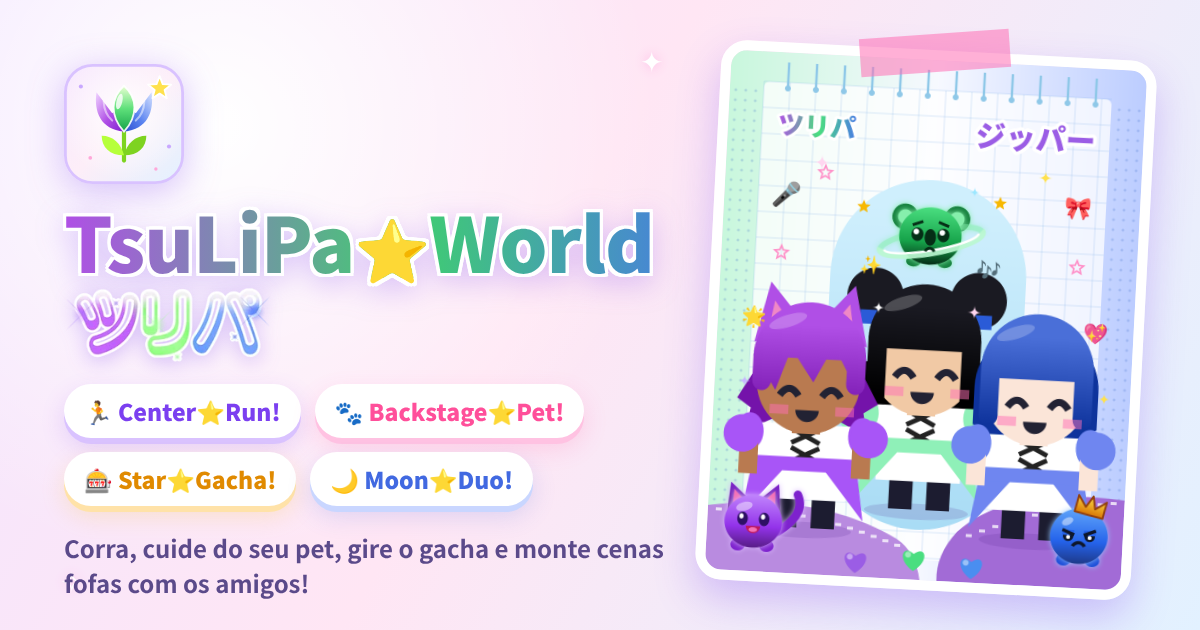
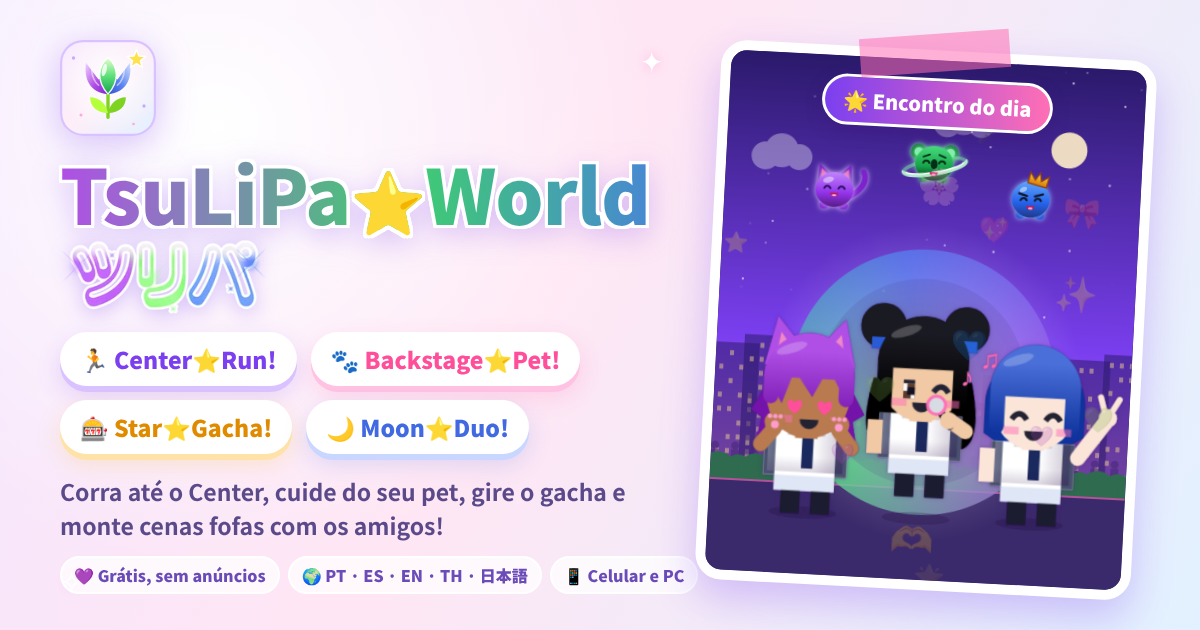
OG novo com a cena do jogo e Privacidade atualizada (Duo, outdoors, Encontro do dia, aniversário, gacha, histórico)
Claude-Session: https://claude.ai/code/session_01XGVFxJ3mBe4Ma5WA6JJQdv

diff --git a/privacidade.html b/privacidade.html
@@ -28,7 +28,7 @@ small{color:var(--sub)}
 .lang{display:flex;gap:6px;justify-content:center;flex-wrap:wrap;margin:8px 0 0}.lang button{border:0;border-radius:99px;padding:5px 12px;font:inherit;font-size:13px;font-weight:800;background:var(--chip);color:var(--sub);cursor:pointer}.lang button[aria-pressed=true]{background:linear-gradient(90deg,#7b3ff0,#ff6fb5);color:#fff}
 </style>
 </head><body><main>
-<div class="topo"><div class="logo" translate="no">TsuLiPa<i>⭐</i>World</div><p>ツリパ⭐ワールド · Center⭐Run! · Backstage⭐Pet!</p><div class="lang" id="lang"><button data-l="pt">PT</button><button data-l="es">ES</button><button data-l="en">EN</button><button data-l="th">TH</button><button data-l="ja">日本語</button></div></div>
+<div class="topo"><div class="logo" translate="no">TsuLiPa<i>⭐</i>World</div><p>ツリパ⭐ワールド · Center⭐Run! · Backstage⭐Pet! · Star⭐Gacha! · Moon⭐Duo!</p><div class="lang" id="lang"><button data-l="pt">PT</button><button data-l="es">ES</button><button data-l="en">EN</button><button data-l="th">TH</button><button data-l="ja">日本語</button></div></div>
 <div id="conteudo">
 
 <div class="cartao">
@@ -57,7 +57,7 @@ small{color:var(--sub)}
 <li>Nome de Idol, a foto do seu Idol (o boneco montado no jogo), recorde, rank e posição no ranking.</li>
 <li>Oshi e frase do perfil (se você escolher), insígnias, pets (nome e estágio), últimas corridas e recordes dos minijogos.</li>
 <li>Recados que você recebe (com o nome de quem mandou) e o total de corações.</li>
-</ul>
+<li><b>Moon⭐Duo!, outdoors e Encontro do dia:</b> o seu Idol, com o look que você está usando, pode aparecer nas cenas que outras pessoas montam, nos outdoors do Center Run e como Encontro do dia. Quando alguém monta um Duo com você, você recebe um aviso. Para sair de tudo isso, desmarque <b>&quot;Aparecer no Moon⭐Duo! e nos outdoors do Center Run&quot;</b> no seu perfil.</li><li>As suas 3 últimas cartas do Star⭐Gacha! e, no dia do seu aniversário, o perfil em festa.</li></ul>
 </div>
 
 <div class="cartao">
@@ -66,7 +66,7 @@ small{color:var(--sub)}
 <li><b>O seu e-mail</b> — não aparece em lugar nenhum do jogo, nem no ranking.</li>
 <li>O seu saldo de estrelas, compras, o save completo do camarim e de quem foi cada coração.</li>
 <li>O identificador do aparelho usado no ranking (serve só para evitar trapaças).</li>
-</ul>
+<li>A sua <b>data de aniversário</b> (só dia e mês, opcional): as outras pessoas só veem a festa no dia, nunca a data.</li></ul>
 </div>
 
 <div class="cartao">
@@ -88,7 +88,7 @@ small{color:var(--sub)}
 <li><b>Conta (com login):</b> nome e e-mail do Google, só para reconhecer você.</li>
 <li><b>Jogo:</b> nome de Idol, pontuações, estrelas, itens, roupas, pets, recordes dos minijogos, oshi, frase, recados e corações.</li>
 <li><b>Save na nuvem:</b> uma cópia do seu camarim e do visual dos personagens, para você continuar em outro aparelho.</li>
-</ul>
+<li><b>Histórico:</b> só as 5 últimas e as 5 melhores corridas, mais contadores (corridas, Centers e dias jogados). Corridas mais antigas são apagadas sozinhas toda semana; as insígnias já ganhas continuam.</li></ul>
 <p>Usamos esses dados <b>só para o jogo funcionar</b>. Não vendemos, não compartilhamos com ninguém e não usamos publicidade nem rastreadores.</p>
 </div>
 
@@ -110,34 +110,34 @@ var T = {
 en: {t:'Privacy and Security', v:'← Back to the game', html:
 '<div class="cartao"><h1>Privacy and Security</h1><p>Last updated: 10/27/2026. TsuLiPa⭐World is a BRS48 fan game: <b>free, with no ads and nothing for sale</b>. Here we explain, in plain words, what the game stores, what other people can see and how your account is protected.</p><div class="selos"><span>🔐 Password only at Google</span><span>🙈 Email never shown</span><span>🛡 Everything checked on the server</span><span>🗑 You can delete everything</span></div></div>'+
 '<div class="cartao"><h2>Is signing in with Google safe?</h2><p>Yes. In practice it is safer than creating a new password on a small site:</p><ul><li><b>Your password is typed only on Google\'s own site.</b> The game never sees, receives or stores it.</li><li>Google gives the game only a <b>temporary key</b> saying "this person is who they say", plus your name and email.</li><li>The game has <b>no access</b> to your Gmail, Drive, photos, contacts, YouTube or anything else in your Google account.</li><li>Signing in <b>does not make your Google account easier to hack</b>: protection is still Google\'s.</li><li>You can remove the game\'s access anytime at <a href="https://myaccount.google.com/permissions" target="_blank" rel="noopener">myaccount.google.com/permissions</a>.</li></ul><p class="dica">💡 Golden tip: turn on <b>2-step verification</b> in your Google account.</p><p>Signing in is <b>optional</b>. Without it you can play normally; progress is saved only on your device.</p></div>'+
-'<div class="cartao"><h2>What other people can see (public profile)</h2><ul><li>Idol name, your Idol picture, record, rank and ranking position.</li><li>Oshi and profile phrase (if you choose), badges, pets (name and stage), recent runs and minigame records.</li><li>Messages you receive (with the sender\'s name) and your total hearts.</li></ul></div>'+
-'<div class="cartao"><h2>What is private</h2><ul><li><b>Your email</b> — it never appears anywhere in the game.</li><li>Your star balance, purchases, full dressing room save and who gave each heart.</li><li>The device id used in the ranking (only to prevent cheating).</li></ul></div>'+
+'<div class="cartao"><h2>What other people can see (public profile)</h2><ul><li>Idol name, your Idol picture, record, rank and ranking position.</li><li>Oshi and profile phrase (if you choose), badges, pets (name and stage), recent runs and minigame records.</li><li>Messages you receive (with the sender\'s name) and your total hearts.</li><li><b>Moon⭐Duo!, billboards and Meeting of the day:</b> your Idol, in the look you are wearing, may appear in scenes other people make, on the Center Run billboards and as the Meeting of the day. When someone makes a Duo with you, you get a notice. To opt out of all of this, uncheck <b>&quot;Appear in Moon⭐Duo! and on the Center Run billboards&quot;</b> in your profile.</li><li>Your last 3 Star⭐Gacha! cards and, on your birthday, your profile in party mode.</li></ul></div>'+
+'<div class="cartao"><h2>What is private</h2><ul><li><b>Your email</b> — it never appears anywhere in the game.</li><li>Your star balance, purchases, full dressing room save and who gave each heart.</li><li>The device id used in the ranking (only to prevent cheating).</li><li>Your <b>birthday</b> (day and month only, optional): others only see the party on the day, never the date.</li></ul></div>'+
 '<div class="cartao"><h2>How the database protects everything</h2><ul><li>Data is stored on <b>Supabase</b>, with an encrypted (HTTPS) connection.</li><li><b>Each person can only change their own account.</b> The rules live on the server, not in the browser.</li><li><b>Stars, purchases, points and ranking are checked on the server</b>. Tampering with the browser does not add stars or fake scores.</li><li>The key in the site is a limited public key: it gives no access to anyone\'s private data.</li><li>Messages and phrases go through a <b>word filter</b> and have limits (60 characters, 1 message per day per profile).</li><li>The game\'s moderators can delete messages and phrases, rename offensive names and block accounts.</li></ul></div>'+
-'<div class="cartao"><h2>What we store and why</h2><ul><li><b>Account (signed in):</b> Google name and email, only to recognize you.</li><li><b>Game:</b> Idol name, scores, stars, items, outfits, pets, minigame records, oshi, phrase, messages and hearts.</li><li><b>Cloud save:</b> a copy of your dressing room and characters\' looks, to continue on another device.</li></ul><p>We use this data <b>only to run the game</b>. We do not sell or share it and use no ads or trackers.</p></div>'+
+'<div class="cartao"><h2>What we store and why</h2><ul><li><b>Account (signed in):</b> Google name and email, only to recognize you.</li><li><b>Game:</b> Idol name, scores, stars, items, outfits, pets, minigame records, oshi, phrase, messages and hearts.</li><li><b>Cloud save:</b> a copy of your dressing room and characters\' looks, to continue on another device.</li><li><b>History:</b> only your last 5 and best 5 runs, plus counters (runs, Centers and days played). Older runs are deleted automatically every week; badges you already earned stay.</li></ul><p>We use this data <b>only to run the game</b>. We do not sell or share it and use no ads or trackers.</p></div>'+
 '<div class="cartao"><h2>Your rights (LGPD)</h2><ul><li><b>Delete everything:</b> in the game, open <b>My Profile → Delete my account</b>. Everything is really deleted, right away.</li><li><b>Sign out:</b> the "Sign out" button disconnects this device. Your progress stays in the cloud.</li><li>Questions about your data: talk to the game\'s moderation (Tsu) in the BRS48 group.</li></ul><small>Made by fans, for fans. 💜💚💙</small></div>'},
 es: {t:'Privacidad y Seguridad', v:'← Volver al juego', html:
 '<div class="cartao"><h1>Privacidad y Seguridad</h1><p>Última actualización: 27/10/2026. TsuLiPa⭐World es un juego de fans de BRS48: <b>gratis, sin anuncios y sin ventas</b>. Aquí explicamos, sin complicaciones, qué guarda el juego, qué ven otras personas y cómo se protege tu cuenta.</p><div class="selos"><span>🔐 Contraseña solo en Google</span><span>🙈 El correo nunca aparece</span><span>🛡 Todo se verifica en el servidor</span><span>🗑 Puedes borrarlo todo</span></div></div>'+
 '<div class="cartao"><h2>¿Es seguro entrar con Google?</h2><p>Sí. En la práctica es más seguro que crear una contraseña nueva en un sitio pequeño:</p><ul><li><b>Tu contraseña se escribe solo en el sitio de Google.</b> El juego nunca la ve, recibe ni guarda.</li><li>Google le da al juego solo una <b>llave temporal</b> que dice "esta persona es quien dice ser", junto con tu nombre y correo.</li><li>El juego <b>no tiene acceso</b> a tu Gmail, Drive, fotos, contactos, YouTube ni nada más de tu cuenta.</li><li>Entrar al juego <b>no hace tu cuenta de Google más fácil de invadir</b>: la protección sigue siendo la de Google.</li><li>Puedes quitar el acceso cuando quieras en <a href="https://myaccount.google.com/permissions" target="_blank" rel="noopener">myaccount.google.com/permissions</a>.</li></ul><p class="dica">💡 Consejo de oro: activa la <b>verificación en dos pasos</b> en tu cuenta de Google.</p><p>El inicio de sesión es <b>opcional</b>. Sin él, puedes jugar normalmente; el progreso queda solo en tu dispositivo.</p></div>'+
-'<div class="cartao"><h2>Lo que ven otras personas (perfil público)</h2><ul><li>Nombre de Idol, la imagen de tu Idol, récord, rango y posición en el ranking.</li><li>Oshi y frase (si eliges), insignias, mascotas (nombre y etapa), últimas carreras y récords de minijuegos.</li><li>Mensajes que recibes (con el nombre de quien los envió) y el total de corazones.</li></ul></div>'+
-'<div class="cartao"><h2>Lo que es privado</h2><ul><li><b>Tu correo</b> — nunca aparece en el juego.</li><li>Tu saldo de estrellas, compras, la partida completa del camerino y quién dio cada corazón.</li><li>El identificador del dispositivo usado en el ranking (solo para evitar trampas).</li></ul></div>'+
+'<div class="cartao"><h2>Lo que ven otras personas (perfil público)</h2><ul><li>Nombre de Idol, la imagen de tu Idol, récord, rango y posición en el ranking.</li><li>Oshi y frase (si eliges), insignias, mascotas (nombre y etapa), últimas carreras y récords de minijuegos.</li><li>Mensajes que recibes (con el nombre de quien los envió) y el total de corazones.</li><li><b>Moon⭐Duo!, carteles y Encuentro del día:</b> tu Idol, con el look que llevas, puede aparecer en escenas que otras personas crean, en los carteles de Center Run y como Encuentro del día. Cuando alguien hace un Duo contigo, recibes un aviso. Para salir de todo esto, desmarca <b>&quot;Aparecer en Moon⭐Duo! y en los carteles de Center Run&quot;</b> en tu perfil.</li><li>Tus 3 últimas cartas de Star⭐Gacha! y, en tu cumpleaños, tu perfil de fiesta.</li></ul></div>'+
+'<div class="cartao"><h2>Lo que es privado</h2><ul><li><b>Tu correo</b> — nunca aparece en el juego.</li><li>Tu saldo de estrellas, compras, la partida completa del camerino y quién dio cada corazón.</li><li>El identificador del dispositivo usado en el ranking (solo para evitar trampas).</li><li>Tu <b>cumpleaños</b> (solo día y mes, opcional): los demás solo ven la fiesta ese día, nunca la fecha.</li></ul></div>'+
 '<div class="cartao"><h2>Cómo la base de datos protege todo</h2><ul><li>Los datos están en <b>Supabase</b>, con conexión cifrada (HTTPS).</li><li><b>Cada persona solo puede cambiar su propia cuenta.</b> Las reglas están en el servidor, no en el navegador.</li><li><b>Estrellas, compras, puntos y ranking se verifican en el servidor</b>.</li><li>La llave del sitio es una llave pública limitada: no da acceso a datos privados de nadie.</li><li>Mensajes y frases pasan por un <b>filtro de palabras</b> y tienen límites.</li><li>La moderación puede borrar mensajes y frases, cambiar nombres ofensivos y bloquear cuentas.</li></ul></div>'+
-'<div class="cartao"><h2>Qué guardamos y por qué</h2><ul><li><b>Cuenta:</b> nombre y correo de Google, solo para reconocerte.</li><li><b>Juego:</b> nombre de Idol, puntos, estrellas, objetos, ropa, mascotas, récords, oshi, frase, mensajes y corazones.</li><li><b>Partida en la nube:</b> una copia de tu camerino y del look de los personajes.</li></ul><p>Usamos estos datos <b>solo para que el juego funcione</b>. No vendemos ni compartimos nada, sin anuncios ni rastreadores.</p></div>'+
+'<div class="cartao"><h2>Qué guardamos y por qué</h2><ul><li><b>Cuenta:</b> nombre y correo de Google, solo para reconocerte.</li><li><b>Juego:</b> nombre de Idol, puntos, estrellas, objetos, ropa, mascotas, récords, oshi, frase, mensajes y corazones.</li><li><b>Partida en la nube:</b> una copia de tu camerino y del look de los personajes.</li><li><b>Historial:</b> solo tus 5 últimas y 5 mejores carreras, más contadores (carreras, Centers y días jugados). Las carreras más antiguas se borran solas cada semana; las insignias ganadas se quedan.</li></ul><p>Usamos estos datos <b>solo para que el juego funcione</b>. No vendemos ni compartimos nada, sin anuncios ni rastreadores.</p></div>'+
 '<div class="cartao"><h2>Tus derechos (LGPD)</h2><ul><li><b>Borrar todo:</b> en el juego, abre <b>Mi Perfil → Borrar mi cuenta</b>. Se borra de verdad, al instante.</li><li><b>Salir:</b> el botón "Salir" desconecta este dispositivo. El progreso sigue en la nube.</li><li>Dudas sobre tus datos: habla con la moderación (Tsu) en el grupo de BRS48.</li></ul><small>Hecho por fans, para fans. 💜💚💙</small></div>'},
 th: {t:'ความเป็นส่วนตัวและความปลอดภัย', v:'← กลับไปที่เกม', html:
 '<div class="cartao"><h1>ความเป็นส่วนตัวและความปลอดภัย</h1><p>อัปเดตล่าสุด: 27/10/2026 TsuLiPa⭐World เป็นเกมแฟนเมดของ BRS48: <b>ฟรี ไม่มีโฆษณา และไม่มีการขายใดๆ</b> หน้านี้อธิบายอย่างง่ายว่าเกมเก็บอะไร คนอื่นเห็นอะไร และบัญชีของคุณได้รับการปกป้องอย่างไร</p><div class="selos"><span>🔐 รหัสผ่านอยู่ที่ Google เท่านั้น</span><span>🙈 ไม่แสดงอีเมล</span><span>🛡 ตรวจสอบทุกอย่างบนเซิร์ฟเวอร์</span><span>🗑 ลบทุกอย่างได้</span></div></div>'+
 '<div class="cartao"><h2>เข้าสู่ระบบด้วย Google ปลอดภัยไหม?</h2><ul><li><b>รหัสผ่านพิมพ์บนเว็บไซต์ของ Google เท่านั้น</b> เกมไม่เคยเห็น ไม่ได้รับ และไม่เก็บรหัสผ่าน</li><li>Google ส่งให้เกมเพียง <b>กุญแจชั่วคราว</b> พร้อมชื่อและอีเมลของคุณ</li><li>เกม <b>ไม่มีสิทธิ์เข้าถึง</b> Gmail, Drive, รูปภาพ, รายชื่อติดต่อ หรือ YouTube ของคุณ</li><li>ยกเลิกสิทธิ์ได้ทุกเมื่อที่ <a href="https://myaccount.google.com/permissions" target="_blank" rel="noopener">myaccount.google.com/permissions</a></li></ul><p class="dica">💡 แนะนำให้เปิด <b>การยืนยันแบบ 2 ขั้นตอน</b> ในบัญชี Google</p><p>การเข้าสู่ระบบเป็น <b>ทางเลือก</b> ไม่เข้าสู่ระบบก็เล่นได้ตามปกติ ความคืบหน้าจะเก็บไว้ในเครื่องเท่านั้น</p></div>'+
-'<div class="cartao"><h2>สิ่งที่คนอื่นเห็น (โปรไฟล์สาธารณะ)</h2><ul><li>ชื่อไอดอล รูปไอดอล สถิติ แรงก์ และอันดับ</li><li>โอชิและคำแนะนำตัว (ถ้าเลือก) เหรียญ สัตว์เลี้ยง รอบล่าสุด และสถิติมินิเกม</li><li>ข้อความที่ได้รับ (พร้อมชื่อผู้ส่ง) และจำนวนหัวใจ</li></ul></div>'+
-'<div class="cartao"><h2>สิ่งที่เป็นส่วนตัว</h2><ul><li><b>อีเมลของคุณ</b> — ไม่แสดงที่ใดในเกม</li><li>ยอดดาว การซื้อ เซฟห้องแต่งตัว และผู้ที่ให้หัวใจ</li><li>รหัสอุปกรณ์ที่ใช้ในการจัดอันดับ (เพื่อป้องกันการโกงเท่านั้น)</li></ul></div>'+
+'<div class="cartao"><h2>สิ่งที่คนอื่นเห็น (โปรไฟล์สาธารณะ)</h2><ul><li>ชื่อไอดอล รูปไอดอล สถิติ แรงก์ และอันดับ</li><li>โอชิและคำแนะนำตัว (ถ้าเลือก) เหรียญ สัตว์เลี้ยง รอบล่าสุด และสถิติมินิเกม</li><li>ข้อความที่ได้รับ (พร้อมชื่อผู้ส่ง) และจำนวนหัวใจ</li><li><b>Moon⭐Duo! ป้ายโฆษณา และการพบกันประจำวัน:</b> ไอดอลของคุณในชุดที่ใส่อยู่ อาจปรากฏในฉากที่คนอื่นสร้าง บนป้ายใน Center Run และเป็นการพบกันประจำวัน เมื่อมีคนทำ Duo กับคุณ คุณจะได้รับแจ้งเตือน หากไม่ต้องการ ให้ยกเลิกติ๊ก <b>&quot;ให้ฉันปรากฏใน Moon⭐Duo! และบนป้ายใน Center Run&quot;</b> ในโปรไฟล์</li><li>การ์ด Star⭐Gacha! 3 ใบล่าสุด และโปรไฟล์ธีมปาร์ตี้ในวันเกิดของคุณ</li></ul></div>'+
+'<div class="cartao"><h2>สิ่งที่เป็นส่วนตัว</h2><ul><li><b>อีเมลของคุณ</b> — ไม่แสดงที่ใดในเกม</li><li>ยอดดาว การซื้อ เซฟห้องแต่งตัว และผู้ที่ให้หัวใจ</li><li>รหัสอุปกรณ์ที่ใช้ในการจัดอันดับ (เพื่อป้องกันการโกงเท่านั้น)</li><li><b>วันเกิด</b> (เฉพาะวันและเดือน ไม่บังคับ): คนอื่นเห็นแค่ปาร์ตี้ในวันนั้น ไม่เห็นวันที่</li></ul></div>'+
 '<div class="cartao"><h2>ฐานข้อมูลปกป้องข้อมูลอย่างไร</h2><ul><li>ข้อมูลเก็บที่ <b>Supabase</b> ผ่านการเชื่อมต่อแบบเข้ารหัส (HTTPS)</li><li><b>แต่ละคนแก้ไขได้เฉพาะบัญชีของตัวเอง</b> กฎอยู่บนเซิร์ฟเวอร์</li><li><b>ดาว การซื้อ คะแนน และอันดับ ตรวจสอบบนเซิร์ฟเวอร์</b></li><li>ข้อความและคำแนะนำตัวผ่าน <b>ตัวกรองคำ</b> และผู้ดูแลสามารถลบหรือบล็อกได้</li></ul></div>'+
-'<div class="cartao"><h2>สิ่งที่เราเก็บและเหตุผล</h2><ul><li><b>บัญชี:</b> ชื่อและอีเมล Google เพื่อจดจำคุณเท่านั้น</li><li><b>เกม:</b> ชื่อไอดอล คะแนน ดาว ไอเทม ชุด สัตว์เลี้ยง สถิติ โอชิ ข้อความ และหัวใจ</li><li><b>เซฟบนคลาวด์:</b> สำเนาห้องแต่งตัวและลุคของตัวละคร</li></ul><p>เราใช้ข้อมูลนี้ <b>เพื่อให้เกมทำงานเท่านั้น</b> ไม่ขาย ไม่แชร์ ไม่มีโฆษณาหรือตัวติดตาม</p></div>'+
+'<div class="cartao"><h2>สิ่งที่เราเก็บและเหตุผล</h2><ul><li><b>บัญชี:</b> ชื่อและอีเมล Google เพื่อจดจำคุณเท่านั้น</li><li><b>เกม:</b> ชื่อไอดอล คะแนน ดาว ไอเทม ชุด สัตว์เลี้ยง สถิติ โอชิ ข้อความ และหัวใจ</li><li><b>เซฟบนคลาวด์:</b> สำเนาห้องแต่งตัวและลุคของตัวละคร</li><li><b>ประวัติ:</b> เก็บเฉพาะ 5 รอบล่าสุดและ 5 รอบที่ดีที่สุด พร้อมตัวนับ (จำนวนรอบ เซ็นเตอร์ และวันที่เล่น) รอบที่เก่ากว่าจะถูกลบอัตโนมัติทุกสัปดาห์ เหรียญที่ได้แล้วยังอยู่</li></ul><p>เราใช้ข้อมูลนี้ <b>เพื่อให้เกมทำงานเท่านั้น</b> ไม่ขาย ไม่แชร์ ไม่มีโฆษณาหรือตัวติดตาม</p></div>'+
 '<div class="cartao"><h2>สิทธิ์ของคุณ (LGPD)</h2><ul><li><b>ลบทุกอย่าง:</b> ในเกม เปิด <b>โปรไฟล์ของฉัน → ลบบัญชีของฉัน</b> ข้อมูลจะถูกลบทันที</li><li><b>ออกจากระบบ:</b> ปุ่ม "ออกจากระบบ" จะตัดการเชื่อมต่ออุปกรณ์นี้</li><li>มีคำถามเกี่ยวกับข้อมูล: ติดต่อผู้ดูแล (Tsu) ในกลุ่ม BRS48</li></ul><small>สร้างโดยแฟน เพื่อแฟน 💜💚💙</small></div>'},
 ja: {t:'プライバシーと安全', v:'← ゲームにもどる', html:
 '<div class="cartao"><h1>プライバシーと安全</h1><p>最終更新：2026/10/27。TsuLiPa⭐WorldはBRS48のファンゲームです。<b>無料・広告なし・販売なし</b>。ゲームが何を保存し、ほかの人に何が見え、アカウントがどう守られているかをかんたんに説明します。</p><div class="selos"><span>🔐 パスワードはGoogleだけ</span><span>🙈 メールは表示されません</span><span>🛡 すべてサーバーで確認</span><span>🗑 すべて削除できます</span></div></div>'+
 '<div class="cartao"><h2>Googleでのログインは安全？</h2><ul><li><b>パスワードはGoogleのサイトでだけ入力します。</b>ゲームは見ることも、受け取ることも、保存することもありません。</li><li>Googleがゲームに渡すのは<b>一時的なキー</b>と、名前・メールアドレスだけです。</li><li>ゲームはGmail、ドライブ、写真、連絡先、YouTubeなどに<b>アクセスできません</b>。</li><li>アクセスはいつでも <a href="https://myaccount.google.com/permissions" target="_blank" rel="noopener">myaccount.google.com/permissions</a> で取り消せます。</li></ul><p class="dica">💡 Googleアカウントの<b>2段階認証</b>をオンにするのがおすすめ。</p><p>ログインは<b>任意</b>です。ログインしなくても遊べます（進行は端末にだけ保存）。</p></div>'+
-'<div class="cartao"><h2>ほかの人に見えるもの（公開プロフィール）</h2><ul><li>アイドル名、アイドルの画像、ベスト、ランク、順位。</li><li>推しとひとこと（設定した場合）、バッジ、ペット、最近のラン、ミニゲームの記録。</li><li>受け取ったメッセージ（送り主の名前つき）とハートの数。</li></ul></div>'+
-'<div class="cartao"><h2>非公開のもの</h2><ul><li><b>メールアドレス</b> — ゲームのどこにも表示されません。</li><li>スターの残高、購入履歴、楽屋のセーブ、だれがハートをくれたか。</li><li>ランキング用の端末ID（不正防止のためだけ）。</li></ul></div>'+
+'<div class="cartao"><h2>ほかの人に見えるもの（公開プロフィール）</h2><ul><li>アイドル名、アイドルの画像、ベスト、ランク、順位。</li><li>推しとひとこと（設定した場合）、バッジ、ペット、最近のラン、ミニゲームの記録。</li><li>受け取ったメッセージ（送り主の名前つき）とハートの数。</li><li><b>Moon⭐Duo!・看板・今日の出会い：</b>今着ている衣装のあなたのアイドルが、ほかの人のシーン、Center Runの看板、「今日の出会い」に登場することがあります。だれかがあなたとDuoを作ると通知が届きます。参加したくない場合は、プロフィールの<b>「Moon⭐Duo!とCenter Runの看板に出る」</b>をオフにしてください。</li><li>Star⭐Gacha!の最新カード3枚と、誕生日当日のお祝いプロフィール。</li></ul></div>'+
+'<div class="cartao"><h2>非公開のもの</h2><ul><li><b>メールアドレス</b> — ゲームのどこにも表示されません。</li><li>スターの残高、購入履歴、楽屋のセーブ、だれがハートをくれたか。</li><li>ランキング用の端末ID（不正防止のためだけ）。</li><li><b>誕生日</b>（月と日のみ・任意）：ほかの人には当日のお祝いだけが見え、日付は見えません。</li></ul></div>'+
 '<div class="cartao"><h2>データベースの守り方</h2><ul><li>データは<b>Supabase</b>に暗号化通信（HTTPS）で保存されます。</li><li><b>自分のアカウントしか変更できません。</b>ルールはブラウザではなくサーバーにあります。</li><li><b>スター、購入、スコア、ランキングはサーバーで確認</b>されます。</li><li>メッセージとひとことは<b>ワードフィルター</b>を通り、モデレーターが削除・ブロックできます。</li></ul></div>'+
-'<div class="cartao"><h2>保存するものとその理由</h2><ul><li><b>アカウント：</b>あなたを識別するためのGoogleの名前とメール。</li><li><b>ゲーム：</b>アイドル名、スコア、スター、アイテム、服、ペット、記録、推し、ひとこと、メッセージ、ハート。</li><li><b>クラウドセーブ：</b>楽屋とキャラクターの見た目のコピー。</li></ul><p>これらのデータは<b>ゲームのためだけ</b>に使います。販売・共有・広告・トラッカーはありません。</p></div>'+
+'<div class="cartao"><h2>保存するものとその理由</h2><ul><li><b>アカウント：</b>あなたを識別するためのGoogleの名前とメール。</li><li><b>ゲーム：</b>アイドル名、スコア、スター、アイテム、服、ペット、記録、推し、ひとこと、メッセージ、ハート。</li><li><b>クラウドセーブ：</b>楽屋とキャラクターの見た目のコピー。</li><li><b>履歴：</b>最新5回とベスト5回のランと、カウンター（ラン数・センター数・プレイ日数）だけ。古いランは毎週自動で削除されます。獲得済みのバッジは残ります。</li></ul><p>これらのデータは<b>ゲームのためだけ</b>に使います。販売・共有・広告・トラッカーはありません。</p></div>'+
 '<div class="cartao"><h2>あなたの権利（LGPD）</h2><ul><li><b>すべて削除：</b>ゲームで<b>マイプロフィール → アカウントを削除</b>。すぐに完全に削除されます。</li><li><b>ログアウト：</b>「ログアウト」でこの端末の接続を解除。進行はクラウドに残ります。</li><li>データについての質問：BRS48のグループでモデレーター（Tsu）へ。</li></ul><small>ファンがファンのために作りました 💜💚💙</small></div>'}
 };
 var PT = document.getElementById('conteudo').innerHTML, PTv = document.getElementById('voltar').textContent, PTt = document.title;

diff --git a/index.html b/index.html
@@ -23,14 +23,14 @@
 <meta property="og:title" content="TsuLiPa⭐World">
 <meta property="og:description" content="Corra até o Center, cuide do seu pet, gire o Star⭐Gacha! e monte cenas com amigos no Moon⭐Duo! Um jogo do TsuLiPa (BRS48).">
 <meta property="og:url" content="https://tsulipa-world.vercel.app/">
-<meta property="og:image" content="https://tsulipa-world.vercel.app/og.jpg?v=7">
+<meta property="og:image" content="https://tsulipa-world.vercel.app/og.jpg?v=8">
 <meta property="og:image:width" content="1200">
 <meta property="og:image:height" content="630">
 <meta property="og:locale" content="pt_BR">
 <meta name="twitter:card" content="summary_large_image">
 <meta name="twitter:title" content="TsuLiPa⭐World">
 <meta name="twitter:description" content="Corra até o Center, cuide do seu pet, gire o Star⭐Gacha! e monte cenas com amigos no Moon⭐Duo!">
-<meta name="twitter:image" content="https://tsulipa-world.vercel.app/og.jpg?v=7">
+<meta name="twitter:image" content="https://tsulipa-world.vercel.app/og.jpg?v=8">
 <link rel="manifest" href="manifest.json">
 <meta name="google-site-verification" content="J49ekjyq4BDr6eOcluPFBIOG14ahyJAs0NrObrKJqOs" />
 <title>TsuLiPa⭐World</title>
